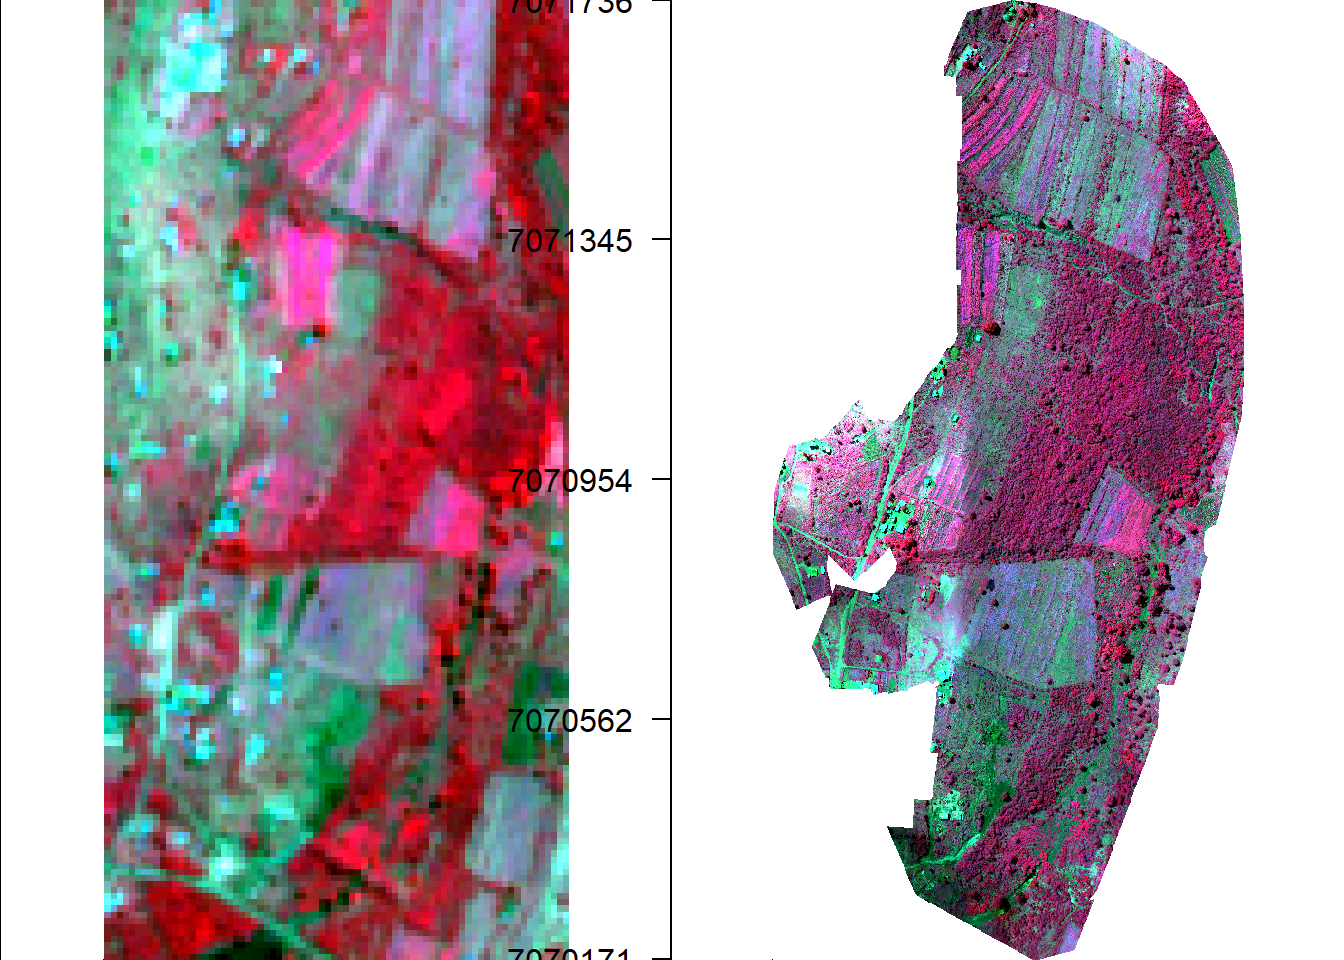
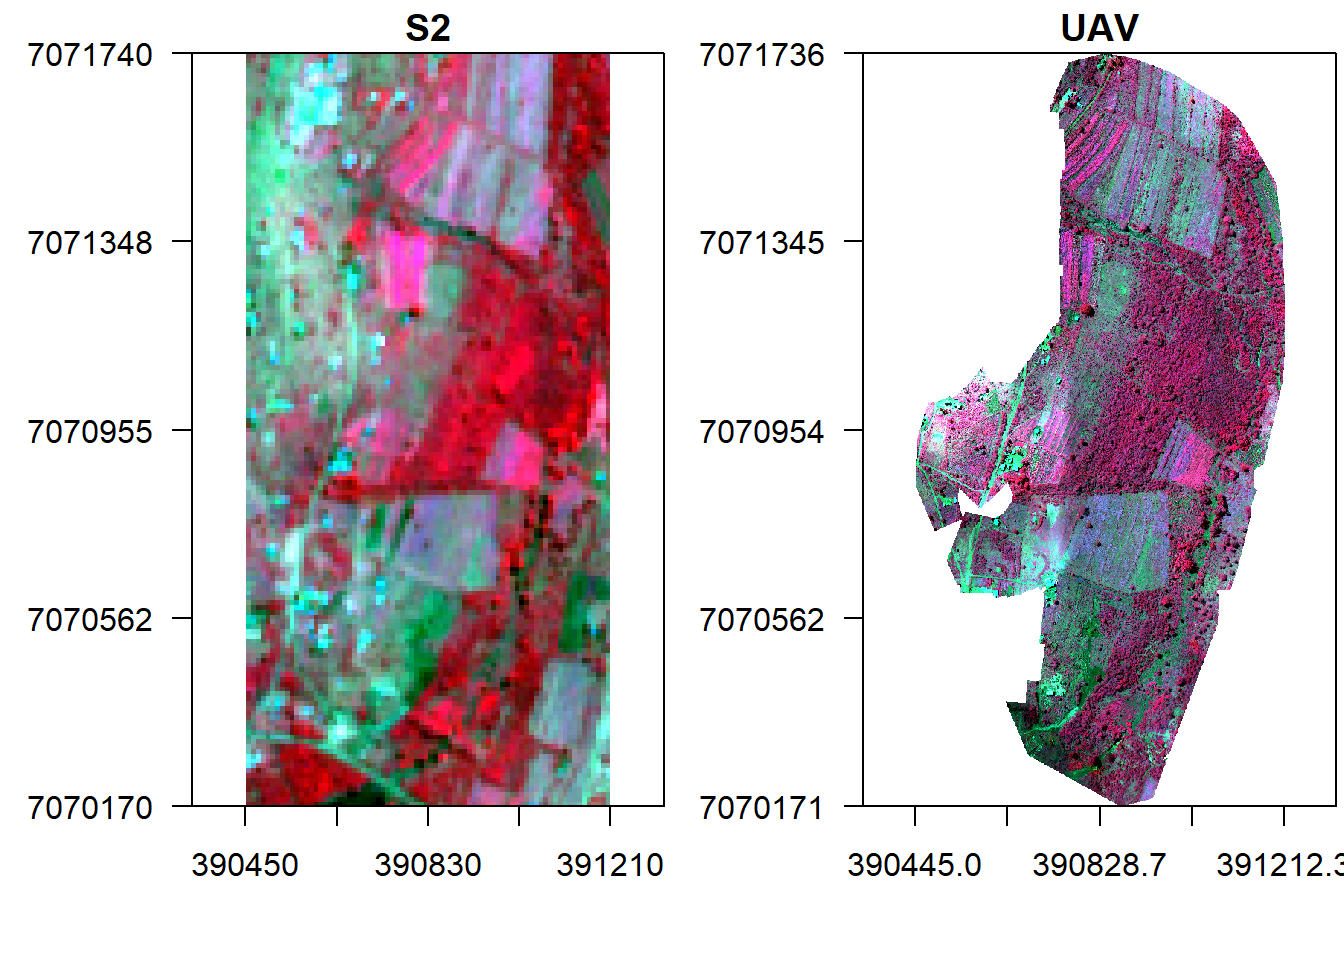
--edits

diff --git a/fusion.html b/fusion.html
@@ -493,9 +493,11 @@ v</code></pre>
 <pre class="r"><code>s &lt;- crop(s, ext(v), snap=&quot;near&quot;)</code></pre>
 <p>Display the images side by side.</p>
 <pre class="r"><code>x11()
-par(mfrow = c(1, 2), mar = c(4, 5, 1.4, 0.2)) #c(bottom, left, top, right)
-plotRGB(s, r=&quot;nir&quot;, g=&quot;r&quot;, b=&quot;g&quot;, stretch=&quot;lin&quot;, axes = TRUE, main=&quot;S2&quot;)
-plotRGB(v, r=&quot;nir&quot;, g=&quot;r&quot;, b=&quot;g&quot;, stretch=&quot;lin&quot;, axes = TRUE, main=&quot;UAV&quot;)</code></pre>
+par(mfrow = c(1, 2)) #c(bottom, left, top, right)
+plotRGB(s, r=&quot;nir&quot;, g=&quot;r&quot;, b=&quot;g&quot;, stretch=&quot;lin&quot;, axes=T, mar = c(4, 5, 1.4, 0.2), main=&quot;S2&quot;)
+box()
+plotRGB(v, r=&quot;nir&quot;, g=&quot;r&quot;, b=&quot;g&quot;, stretch=&quot;lin&quot;, axes=T, mar = c(4, 5, 1.4, 0.2), main=&quot;UAV&quot;)
+box()</code></pre>
 <p><img src="fusion_files/figure-html/d5-1.png" width="672" /></p>
 <p>First let us conduct a spectral fusion of S2 and UAV images. To do this we have to resample UAV image to S2 extents.</p>
 <pre class="r"><code>v_r &lt;- resample(v, s, method=&#39;bilinear&#39;)
@@ -520,9 +522,12 @@ f1</code></pre>
 <pre class="r"><code>#Display fused image alongside original UAV
 x11()
 par(mfrow = c(1, 3),mar = c(4, 5, 1.4, 0.2)) 
-plotRGB(v, r=&quot;nir&quot;, g=&quot;r&quot;, b=&quot;g&quot;, stretch=&quot;lin&quot;, axes = TRUE, main=&quot;UAV&quot;, cex.axis=0.7)
-plotRGB(s, r=&quot;nir&quot;, g=&quot;r&quot;, b=&quot;g&quot;, stretch=&quot;lin&quot;, axes = TRUE, main=&quot;S2&quot;, cex.axis=0.7)
-plotRGB(f1, r=&quot;nir&quot;, g=&quot;r&quot;, b=&quot;g&quot;, stretch=&quot;lin&quot;, axes = TRUE, main=&quot;Fused_multi&quot;, cex.axis=0.7)</code></pre>
+plotRGB(v, r=&quot;nir&quot;, g=&quot;r&quot;, b=&quot;g&quot;, stretch=&quot;lin&quot;, axes=T, mar = c(4, 5, 1.4, 0.2), main=&quot;UAV&quot;, cex.axis=0.7)
+box()
+plotRGB(s, r=&quot;nir&quot;, g=&quot;r&quot;, b=&quot;g&quot;, stretch=&quot;lin&quot;, axes=T, mar = c(4, 5, 1.4, 0.2), main=&quot;S2&quot;, cex.axis=0.7)
+box()
+plotRGB(f1, r=&quot;nir&quot;, g=&quot;r&quot;, b=&quot;g&quot;, stretch=&quot;lin&quot;, axes=T, mar = c(4, 5, 1.4, 0.2), main=&quot;Fused_multi&quot;, cex.axis=0.7)
+box()</code></pre>
 <p><img src="fusion_files/figure-html/d7-1.png" width="672" /></p>
 <p>What about mean fusion (i.e. taking the mean of each pixel’s reflectance in both UAV and S2)?</p>
 <pre class="r"><code>#Fuse by multiplication
@@ -540,20 +545,29 @@ f2</code></pre>
 <pre class="r"><code>#Display fused image alongside original UAV
 x11()
 par(mfrow = c(2, 2), mar = c(4, 5, 1.4, 0.2)) 
-plotRGB(v, r=&quot;nir&quot;, g=&quot;r&quot;, b=&quot;g&quot;, stretch=&quot;lin&quot;,  main=&quot;UAV&quot;, axes=TRUE, cex.axis=0.7)
-plotRGB(s, r=&quot;nir&quot;, g=&quot;r&quot;, b=&quot;g&quot;, stretch=&quot;lin&quot;, main=&quot;S2&quot;, axes=TRUE, cex.axis=0.7)
-plotRGB(f1, r=&quot;nir&quot;, g=&quot;r&quot;, b=&quot;g&quot;, stretch=&quot;lin&quot;, main=&quot;Fused_mult&quot;, axes=TRUE, cex.axis=0.7)
-plotRGB(f2, r=&quot;nir&quot;, g=&quot;r&quot;, b=&quot;g&quot;, stretch=&quot;lin&quot;, main=&quot;Fused_mean&quot;, axes=TRUE, cex.axis=0.7)</code></pre>
+plotRGB(v, r=&quot;nir&quot;, g=&quot;r&quot;, b=&quot;g&quot;, stretch=&quot;lin&quot;,  main=&quot;UAV&quot;, axes=T, mar = c(4, 5, 1.4, 0.2))
+box()
+plotRGB(s, r=&quot;nir&quot;, g=&quot;r&quot;, b=&quot;g&quot;, stretch=&quot;lin&quot;, main=&quot;S2&quot;, axes=T, mar = c(4, 5, 1.4, 0.2))
+box()
+plotRGB(f1, r=&quot;nir&quot;, g=&quot;r&quot;, b=&quot;g&quot;, stretch=&quot;lin&quot;, main=&quot;Fused_mult&quot;, axes=T, mar = c(4, 5, 1.4, 0.2))
+box()
+plotRGB(f2, r=&quot;nir&quot;, g=&quot;r&quot;, b=&quot;g&quot;, stretch=&quot;lin&quot;, main=&quot;Fused_mean&quot;, axes=T, mar = c(4, 5, 1.4, 0.2))
+box()</code></pre>
 <p><img src="fusion_files/figure-html/d8-1.png" width="672" /></p>
 <p>Let us finally follow the fusion approach in <a href="https://ieeexplore.ieee.org/document/8812312">Zou et al (2018)</a>.</p>
 <pre class="r"><code>f3 = (s/v_r)*v_r
 x11()
 par(mfrow = c(2, 3), mar = c(4, 5, 1.4, 0.2)) 
-plotRGB(v, r=&quot;nir&quot;, g=&quot;r&quot;, b=&quot;g&quot;, stretch=&quot;lin&quot;,  main=&quot;UAV&quot;, axes=TRUE)
-plotRGB(s, r=&quot;nir&quot;, g=&quot;r&quot;, b=&quot;g&quot;, stretch=&quot;lin&quot;, main=&quot;S2&quot;, axes=TRUE)
-plotRGB(f1, r=&quot;nir&quot;, g=&quot;r&quot;, b=&quot;g&quot;, stretch=&quot;lin&quot;, main=&quot;Fused_mult&quot;, axes=TRUE)
-plotRGB(f2, r=&quot;nir&quot;, g=&quot;r&quot;, b=&quot;g&quot;, stretch=&quot;lin&quot;, main=&quot;Fused_mean&quot;, axes=TRUE)
-plotRGB(f3, r=&quot;nir&quot;, g=&quot;r&quot;, b=&quot;g&quot;, stretch=&quot;lin&quot;, main=&quot;Zhou etal&quot;, axes=TRUE)</code></pre>
+plotRGB(v, r=&quot;nir&quot;, g=&quot;r&quot;, b=&quot;g&quot;, stretch=&quot;lin&quot;,  main=&quot;UAV&quot;, axes=T, mar = c(4, 5, 1.4, 0.2))
+box()
+plotRGB(s, r=&quot;nir&quot;, g=&quot;r&quot;, b=&quot;g&quot;, stretch=&quot;lin&quot;, main=&quot;S2&quot;, axes=T, mar = c(4, 5, 1.4, 0.2))
+box()
+plotRGB(f1, r=&quot;nir&quot;, g=&quot;r&quot;, b=&quot;g&quot;, stretch=&quot;lin&quot;, main=&quot;Fused_mult&quot;, axes=T, mar = c(4, 5, 1.4, 0.2))
+box()
+plotRGB(f2, r=&quot;nir&quot;, g=&quot;r&quot;, b=&quot;g&quot;, stretch=&quot;lin&quot;, main=&quot;Fused_mean&quot;, axes=T, mar = c(4, 5, 1.4, 0.2))
+box()
+plotRGB(f3, r=&quot;nir&quot;, g=&quot;r&quot;, b=&quot;g&quot;, stretch=&quot;lin&quot;, main=&quot;Zhou etal&quot;, axes=T, mar = c(4, 5, 1.4, 0.2))
+box()</code></pre>
 <p><img src="fusion_files/figure-html/d9-1.png" width="672" /></p>
 </div>
 <div id="feature-based-fusion" class="section level2">
